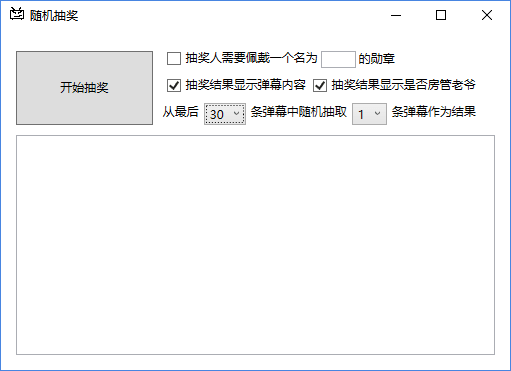
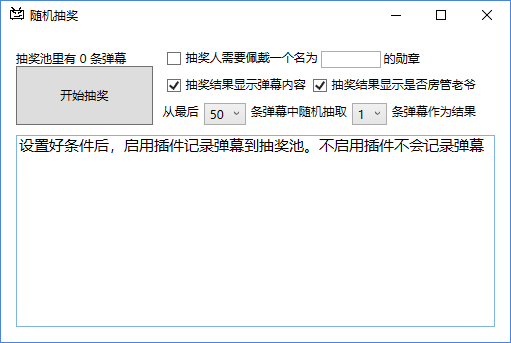
更新弹幕抽奖插件

diff --git a/_plugin/Lottery.md b/_plugin/Lottery.md
@@ -4,17 +4,13 @@ auther: 宅急送队长
 plugin_author: 宅急送队长
 plugin_name: 弹幕抽奖
 plugin_desc: 从弹幕中随机抽奖
-plugin_version: 1.0
-plugin_update_datetime: 2016-10-6 12:00:00 +0800
+plugin_version: 1.1
+plugin_update_datetime: 2018-04-20 20:40:00 +0800
 #plugin_update_desc: |-
 #  
 plugin_dllink: /resource/Lottery/DMPlugin_Lottery.zip
 #plugin_dlnote: 并不需要下载说明
 ---
-## 一个简单到我觉得都不需要说明的小插件
-
-### 界面样子：
-
 <img class="shadow" src="https://www.danmuji.cn/resource/Lottery/GUI.png" alt="界面样子"  />
 
 <br/>
@@ -35,246 +31,3 @@ plugin_dllink: /resource/Lottery/DMPlugin_Lottery.zip
 - 抽奖为从最后若干条弹幕中随机抽奖
 - 如果有人发送了多条弹幕，有概率抽中多次一个人的不同弹幕
 - 同一条弹幕不可能抽中两次
-
-<br/>
-
-### 插件源码：
-按 WTFPL 协议开源 <del>在下载页贴代码很装逼</del>
-
-#### Main.cs
-
-```csharp
-using BilibiliDM_PluginFramework;
-
-namespace DMPlugin_Lottery
-{
-    public class Main : DMPlugin
-    {
-        private LotteryWindow w;
-        public Main()
-        {
-            this.PluginName = "随机抽奖";
-            this.PluginAuth = "宅急送队长";
-            this.PluginCont = "QQXXXXXXXXXX";// 网站上不放自己QQ
-            this.PluginDesc = "从弹幕中随机抽奖";
-            this.PluginVer = "1.0";
-            this.ReceivedDanmaku += Main_ReceivedDanmaku;
-            w = new LotteryWindow(this);
-        }
-
-        private void Main_ReceivedDanmaku(object sender, ReceivedDanmakuArgs e)
-        {
-            if(e.Danmaku.MsgType == MsgTypeEnum.Comment)
-            {
-                w.AddDM(e.Danmaku);
-            }
-        }
-
-        public override void Admin()
-        { w.Show(); w.FocusTopMost(); }
-
-        internal bool isEnable
-        { get { return Status; } }
-    }
-}
-```
-
-#### LotteryWindow.xaml.cs
-
-```csharp
-using System;
-using System.Windows;
-using BilibiliDM_PluginFramework;
-using System.Collections.Generic;
-using Newtonsoft.Json.Linq;
-using System.Windows.Controls;
-using System.Threading;
-
-namespace DMPlugin_Lottery
-{
-    /// <summary>
-    /// MainWindow.xaml 的交互逻辑
-    /// </summary>
-    internal partial class LotteryWindow : Window
-    {
-        private const string CRLF = "\r\n";
-
-        private Main m;
-        private List<DanmakuModel> list = new List<DanmakuModel>();
-
-        internal LotteryWindow(Main main)
-        {
-            this.m = main;
-            InitializeComponent();
-        }
-
-        private void Window_Closing(object sender, System.ComponentModel.CancelEventArgs e)
-        {
-            e.Cancel = true;
-            Hide();
-        }
-
-        internal void FocusTopMost()
-        {
-            Topmost = true;
-            Topmost = false;
-        }
-
-        internal void AddDM(DanmakuModel danmaku)
-        {
-            if(IsCheckXZ)
-            {
-                JObject j = JObject.Parse(danmaku.RawData);
-                if(((JArray)j["info"][3]).Count < 2 || j["info"][3][1].ToString() != getXZName)
-                { return; }// 不添加到抽奖列表
-            }
-            lock(list)
-            {
-                // 如果列表中超量就循环删除
-                while(list.Count > getListMaxNum)
-                { list.RemoveAt(0); }
-
-                list.Add(danmaku);
-            }
-        }
-
-
-        private void Button_Click(object sender, RoutedEventArgs e)
-        {
-            lock(list)
-            {
-                int selectNum = getSelectNum;
-                if(list.Count < selectNum)
-                {
-                    output = $"弹幕数量不够，当前只有{list.Count}条弹幕";
-                    return;
-                }
-
-                Random r = new Random();
-                bool vipadmin = (bool)DisplayVipAdmin.IsChecked;
-                bool ct = (bool)DisplayCommentText.IsChecked;
-
-                string str = "----====抽奖结果====----";
-
-                for(int i = 0; i < selectNum; i++)
-                {
-                    DanmakuModel d = list[r.Next(list.Count)];
-                    list.Remove(d);
-
-                    if(i > 0)
-                    { str += $"{CRLF}-----============-----"; }
-
-                    str += $"{CRLF}第{i + 1}名：『{d.CommentUser}』";
-
-                    if(vipadmin)
-                    { str += (d.isVIP ? "，老爷" : "") + (d.isAdmin ? "，房管" : ""); }
-
-                    if(ct)
-                    { str += $"{CRLF}弹幕内容：{d.CommentText}"; }
-                }
-
-                str += $"{CRLF}-----============-----";
-                output = str;
-            }
-        }
-
-        internal void ClearList()
-        { list.Clear(); }
-
-        private string output
-        {
-            get { return OutputBox.Text; }
-            set { OutputBox.Text = value; }
-        }
-
-        private bool IsCheckXZ =false;
-        private string getXZName = "";
-        private int getListMaxNum =30;
-        private int getSelectNum { get { return int.Parse(SelectNumComboBox.SelectionBoxItem.ToString()); } }
-
-        private void XZCheck_Click(object sender, RoutedEventArgs e)
-        { shit(() => { IsCheckXZ = (bool)(sender as CheckBox).IsChecked; }); }
-
-        private void TextBox_TextChanged(object sender, TextChangedEventArgs e)
-        { shit(() => { getXZName = (sender as TextBox).Text; }); }
-
-        private void ListMaxCountComboBox_SelectionChanged(object sender, SelectionChangedEventArgs e)
-        { shit(() => { int.TryParse((sender as ComboBox).SelectionBoxItem.ToString(), out getListMaxNum); }); }
-
-        private void shit(Action a)
-        { new Thread(() => { Thread.Sleep(5); Dispatcher.Invoke(a); }).Start(); }
-    }
-}
-```
-
-#### LotteryWindow.xaml
-
-```xml
-<Window x:Class="DMPlugin_Lottery.LotteryWindow" x:ClassModifier="internal"
-        xmlns="http://schemas.microsoft.com/winfx/2006/xaml/presentation"
-        xmlns:x="http://schemas.microsoft.com/winfx/2006/xaml"
-        xmlns:d="http://schemas.microsoft.com/expression/blend/2008"
-        xmlns:mc="http://schemas.openxmlformats.org/markup-compatibility/2006"
-        xmlns:local="clr-namespace:DMPlugin_Lottery"
-        mc:Ignorable="d"
-        Title="随机抽奖" Height="350" Width="525"
-        Closing="Window_Closing">
-    <Grid Margin="10">
-        <Grid.RowDefinitions>
-            <RowDefinition Height="5"/>
-            <RowDefinition Height="Auto"/>
-            <RowDefinition Height="5*"/>
-        </Grid.RowDefinitions>
-        <Grid.ColumnDefinitions>
-            <ColumnDefinition Width="3*"/>
-            <ColumnDefinition Width="7*"/>
-        </Grid.ColumnDefinitions>
-
-        <Button Margin="5" Grid.Row="1" Click="Button_Click">开始抽奖</Button>
-        <StackPanel Grid.Row="1" Grid.Column="1">
-            <StackPanel Margin="5"  Orientation="Horizontal">
-                <CheckBox IsChecked="False" Click="XZCheck_Click" Margin="3,0">抽奖人需要佩戴一个名为</CheckBox>
-                <TextBox MinWidth="35" TextChanged="TextBox_TextChanged"/>
-                <TextBlock Margin="3,0">的勋章</TextBlock>
-            </StackPanel>
-            <StackPanel Margin="5" Orientation="Horizontal">
-                <CheckBox IsChecked="True" Margin="3,0" x:Name="DisplayCommentText">抽奖结果显示弹幕内容</CheckBox>
-                <CheckBox IsChecked="True" Margin="3,0" x:Name="DisplayVipAdmin">抽奖结果显示是否房管老爷</CheckBox>
-            </StackPanel>
-            <StackPanel Margin="5" Orientation="Horizontal">
-                <TextBlock>从最后</TextBlock>
-                <ComboBox Margin="5,0" SelectionChanged="ListMaxCountComboBox_SelectionChanged">
-                    <ComboBoxItem>10</ComboBoxItem>
-                    <ComboBoxItem>20</ComboBoxItem>
-                    <ComboBoxItem IsSelected="True">30</ComboBoxItem>
-                    <ComboBoxItem>40</ComboBoxItem>
-                    <ComboBoxItem>50</ComboBoxItem>
-                    <ComboBoxItem>60</ComboBoxItem>
-                    <ComboBoxItem>70</ComboBoxItem>
-                    <ComboBoxItem>80</ComboBoxItem>
-                    <ComboBoxItem>90</ComboBoxItem>
-                    <ComboBoxItem>100</ComboBoxItem>
-                </ComboBox>
-                <TextBlock>条弹幕中随机抽取</TextBlock>
-                <ComboBox x:Name="SelectNumComboBox" Margin="5,0">
-                    <ComboBoxItem IsSelected="True">1</ComboBoxItem>
-                    <ComboBoxItem>2</ComboBoxItem>
-                    <ComboBoxItem>3</ComboBoxItem>
-                    <ComboBoxItem>4</ComboBoxItem>
-                    <ComboBoxItem>5</ComboBoxItem>
-                    <ComboBoxItem>6</ComboBoxItem>
-                    <ComboBoxItem>7</ComboBoxItem>
-                    <ComboBoxItem>8</ComboBoxItem>
-                    <ComboBoxItem>9</ComboBoxItem>
-                    <ComboBoxItem>10</ComboBoxItem>
-                </ComboBox>
-                <TextBlock>条弹幕作为结果</TextBlock>
-            </StackPanel>
-        </StackPanel>
-        <TextBox Grid.ColumnSpan="2" Grid.Row="2"
-                 Margin="5" FontSize="15"
-                 x:Name="OutputBox"/>
-    </Grid>
-</Window>
-
-```
